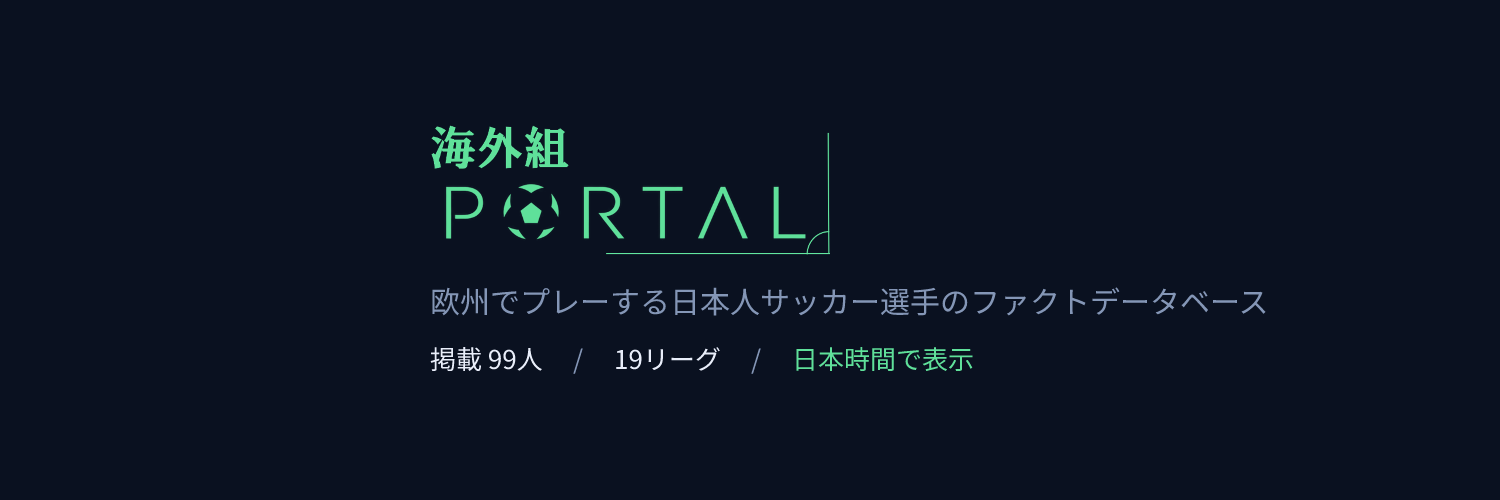
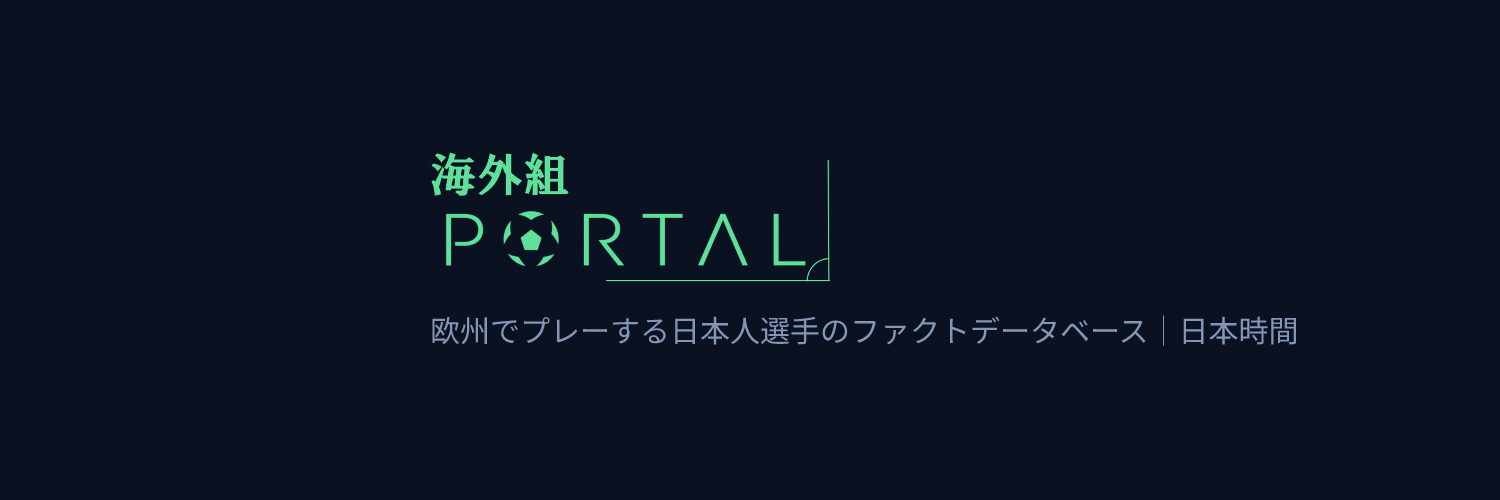
Xのヘッダーから、変わる数字を外して2行にした
掲載人数とリーグ数を画像に焼いていたが、これらは日々変わる。
画像は差し替えないかぎり古い数字を出し続けるので載せない。
おかげでデータが増えてもヘッダーを作り直す必要がなくなった。

「日本時間で表示」は変わらないうえ他所との違いになるので、説明文に畳み込んだ。

Changed region(s): [[0.276, 0.57, 0.8893, 0.75], [0.276, 0.24, 0.552, 0.54]]

diff --git a/CLAUDE.md b/CLAUDE.md
@@ -92,8 +92,12 @@ npm run x:results    # 昨夜の結果とハイライト
 鍵（`X_API_KEY` `X_API_SECRET` `X_ACCESS_TOKEN` `X_ACCESS_SECRET`）が未設定のあいだは、
 投稿せず下書きを実行ログに出すだけになる。揃えば自動で投稿に切り替わる。
 
-本文にURLを入れない以上、プロフィールが唯一の入口になる。ヘッダー画像は次で作り直す
-（1500×500。左下およそ200四方はアイコンが重なるので何も置かない）。
+本文にURLを入れない以上、プロフィールが唯一の入口になる。ヘッダー画像は次で作り直す。
+1500×500。**左下にアイコンが重なる**——実測で横は幅の四分の一、縦は下の四割ほどなので、
+文字の左端は430pxより右に置く。
+
+載せるのはロゴと説明の2行だけにしてある。掲載人数やリーグ数のような変わる数字を
+画像に焼くと古くなるため入れない。おかげでデータが増えても作り直さなくてよい。
 
 ```
 npm run assets:x-header    # output/x-header.png
